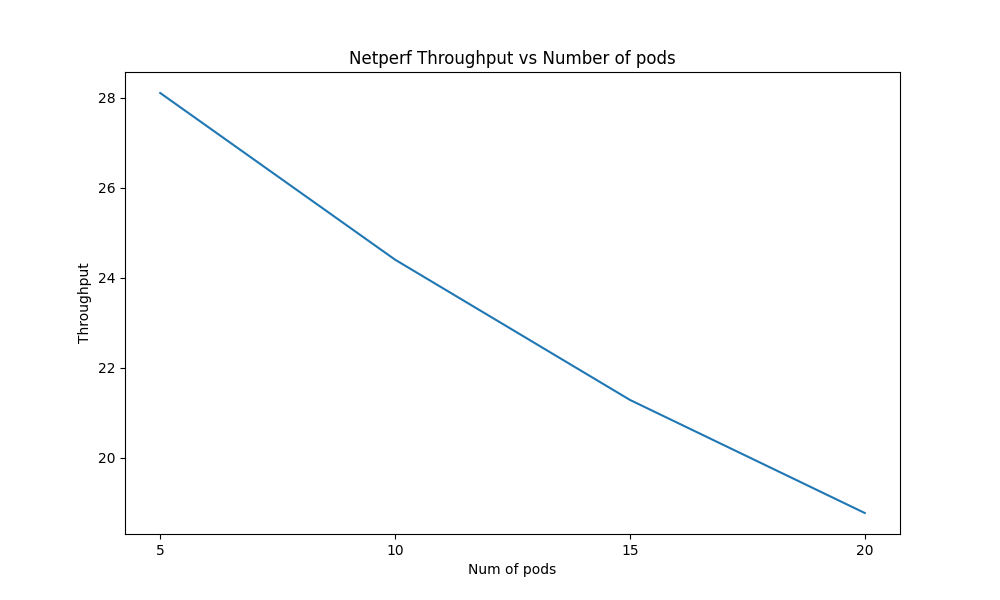
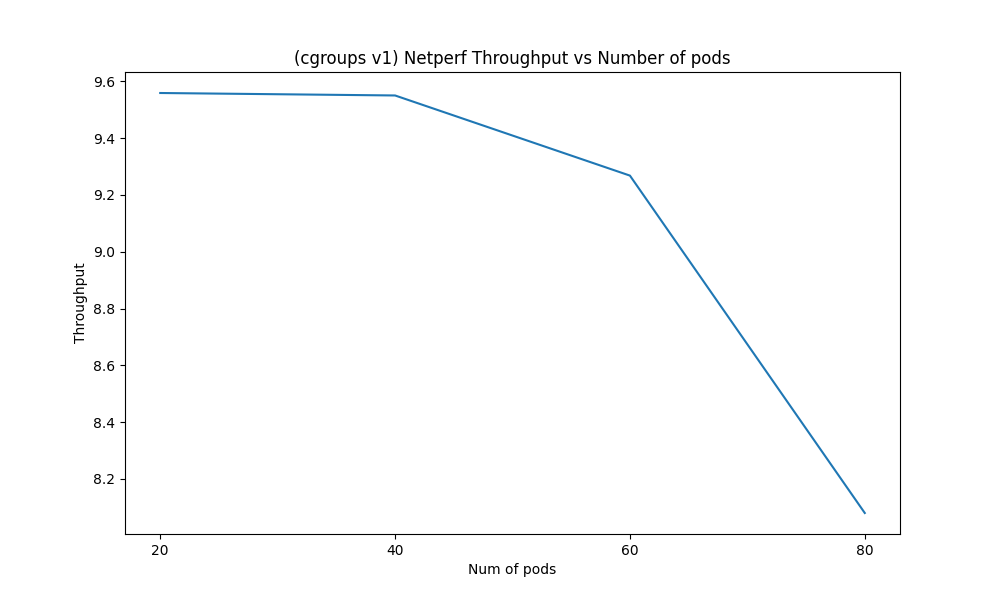
add figures

diff --git a/analysis.py b/analysis.py
@@ -6,7 +6,7 @@ import pandas
 import matplotlib.pyplot as plt
 
 
-def parse_softirq_logs(path):
+def parse_softirq_logs(path, prefix):
     softirq_logs_path = f"logs/{path}/softirq/"
     softirq_logs = os.listdir(softirq_logs_path)
 
@@ -25,11 +25,11 @@ def parse_softirq_logs(path):
     plt.figure(figsize=(10, 6))
     plt.plot(df['Time'], df['Value'])
 
-    plt.title('Softirq Cpu Util over Time')
+    plt.title(f'(cgroups {prefix}) Softirq Cpu Util over Time')
     plt.xlabel('Time')
     plt.ylabel('Cpu Utilization')
 
-    plt.savefig("softirq_threads.png")
+    plt.savefig(f"softirq_cpu_util_{prefix}.png")
     
 def parse_sysbench_logs(prefix):
     logs = [p for p in os.listdir("logs/") if p.startswith(prefix)]
@@ -55,13 +55,13 @@ def parse_sysbench_logs(prefix):
     plt.figure(figsize=(10, 6))
     plt.plot(df['Num of pods'], df['Avg Latency'])
 
-    plt.title('Sysbench Avg Latency vs Netperf Number of pods')
+    plt.title(f'(cgroups {prefix.split("_")[1]}) Sysbench Avg Latency vs Netperf Number of pods')
     plt.xlabel('Num of pods')
     plt.ylabel('Avg Latency')
 
     plt.savefig(f"avg_latency_{prefix}.png")
     
-def parse_cpu_util(path):
+def parse_cpu_util(path, prefix):
     cpu_util_log = f"logs/{path}/cpu_utilization.log"
     if not os.path.exists(cpu_util_log):
         return
@@ -82,11 +82,11 @@ def parse_cpu_util(path):
     plt.figure(figsize=(10, 6))
     plt.plot(df['Time'], df['CPU Utilization'])
 
-    plt.title('Total Cpu Util over Time')
+    plt.title(f'(cgroups {prefix}) Total Cpu Util Over Time')
     plt.xlabel('Time')
     plt.ylabel('Total Cpu Utilization %')
 
-    plt.savefig("cpu_util.png")
+    plt.savefig(f"cpu_util_{prefix}.png")
 
 def parse_netperf_throughput(prefix):
     logs = [p for p in os.listdir("logs/") if p.startswith(prefix)]
@@ -114,17 +114,20 @@ def parse_netperf_throughput(prefix):
     plt.figure(figsize=(10, 6))
     plt.plot(df['Num of pods'], df['Throughput'])
 
-    plt.title('Netperf Throughput vs Number of pods')
+    plt.title(f'(cgroups {prefix.split("_")[1]}) Netperf Throughput vs Number of pods')
     plt.xlabel('Num of pods')
     plt.ylabel('Throughput')
-    plt.xticks([5, 10, 15, 20])
+    plt.xticks([20, 40, 60, 80])
     plt.savefig(f"throughput_{prefix}.png")
     
 if __name__ == "__main__":
-    path = "v1_mixed_2024-05-10_143601"
-    # parse_softirq_logs(path)
-    parse_cpu_util(path)
-    # parse_netperf_throughput("network_v2")
-    # parse_netperf_throughput("network_v1")
-    # parse_sysbench_logs("v1")
-    # parse_sysbench_logs("v2")
+    v2_path = "mixed_v2_2024-05-10_205439"
+    v1_path = "mixed_v1_2024-05-10_205423"
+    parse_softirq_logs(v2_path, "v2")
+    parse_softirq_logs(v1_path, "v1")
+    parse_cpu_util(v2_path, "v2")
+    parse_cpu_util(v1_path, "v1")
+    parse_netperf_throughput("network_v2")
+    parse_netperf_throughput("network_v1")
+    parse_sysbench_logs("mixed_v1")
+    parse_sysbench_logs("mixed_v2")
